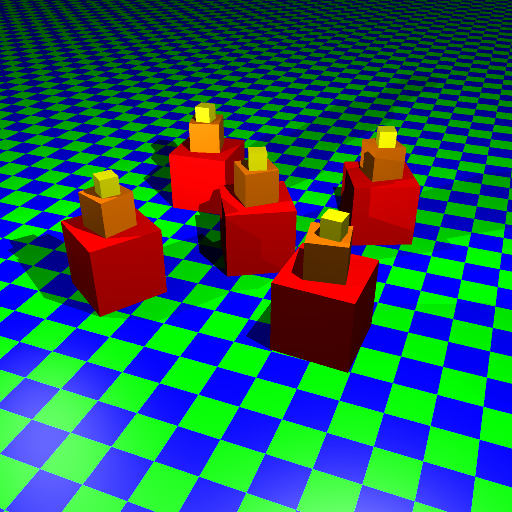
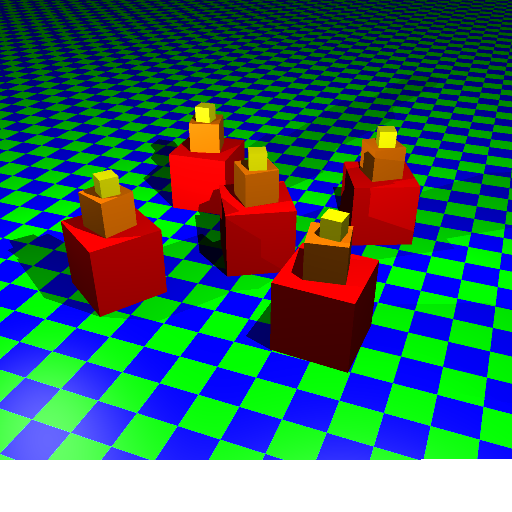
refactor

Changed region(s): [[0.0, 0.875, 1.0, 1.0]]

diff --git a/src/comp557/a4/Parser.java b/src/comp557/a4/Parser.java
@@ -28,10 +28,9 @@ public class Parser {
             scene.ambient.set(x, y, z);   
             s.close();
         }
-        // Added parsing for the number of recursive reflection calls.
-        Node reflectionsAttr = dataNode.getAttributes().getNamedItem("reflections");
-        if( reflectionsAttr != null ) {
-        	Scanner s = new Scanner( reflectionsAttr.getNodeValue());
+        Node reflectionsCount = dataNode.getAttributes().getNamedItem("reflections");
+        if( reflectionsCount != null ) {
+        	Scanner s = new Scanner( reflectionsCount.getNodeValue());
             scene.reflections=s.nextInt();  
             s.close();
         }
@@ -286,15 +285,17 @@ public class Parser {
 	            material.specular.set(r,g,b,a);   
 	            s.close();
 	    	}
-	    	// Added parsing of the material mirror color
+	    	
+	    	// Capture mirror attribute from file during parse
 	    	Node mirrorAttr = dataNode.getAttributes().getNamedItem("mirror");
 	    	if ( mirrorAttr != null ) {
 	        	Scanner s = new Scanner( mirrorAttr.getNodeValue());
-	            float r = s.nextFloat();
-	            float g = s.nextFloat();
-	            float b = s.nextFloat();
+	            //System.out.println(s.next());
+	        	float rMirror = s.nextFloat();
+	            float gMirror = s.nextFloat();
+	            float bMirror = s.nextFloat();
 	            float a = (s.hasNextFloat() ? s.nextFloat() : 1);
-	            material.mirror.set(r,g,b,a);   
+	            material.mirror.set(rMirror,gMirror,bMirror,a);   
 	            s.close();
 	    	}
 	    	Node hardnessAttr = dataNode.getAttributes().getNamedItem("hardness");
@@ -329,7 +330,8 @@ public class Parser {
             render.samples = s.nextInt(); 
 			s.close();
 		}
-		// Added parsing of the jitter attribute
+		
+		//Objective 8: modify parser to capture jitter attribute
 		Node jitterAttr=dataNode.getAttributes().getNamedItem("jitter");
 		if(jitterAttr !=null){//If there is a jitter attribute in the parser tag
         	Scanner s = new Scanner( jitterAttr.getNodeValue());

diff --git a/src/comp557/a4/Plane.java b/src/comp557/a4/Plane.java
@@ -30,32 +30,33 @@ public class Plane extends Intersectable {
 		if (ray.viewDirection.dot(n) != 0) {
 			double t = -(eye.dot(n))/(ray.viewDirection.dot(n));
 			if (t < 0 || t > result.t) return;
-			Vector3d td = new Vector3d(ray.viewDirection);
-			td.scale(t);
+			Vector3d tdVEC = new Vector3d(ray.viewDirection);
+			
+			tdVEC.scale(t);
 			Point3d p = new Point3d(eye);
-			p.add(td);
+			p.add(tdVEC);
 				
 			//If a material is defined, choose the color based on where it is in the checker pattern
-			Material m = null;
+			Material matInit = null;
 			boolean x = (((int) Math.ceil(p.x)) % 2) == 0 ? true : false;
 			boolean z = (((int) Math.ceil(p.z)) % 2) == 0 ? true : false;
 			if (x == z) { 
-				m = this.material;
+				matInit = this.material;
 			}
 			
 			else {
 				if (material2 == null) {
-					m = material;
+					matInit = material;
 				}
 				else {
-					m = material2;
+					matInit = material2;
 				}
 			}
 				
 			result.n.set(n);
 			result.p.set(p);
 			result.t = t;
-			result.material = m;
+			result.material = matInit;
 		}
     	
     }

diff --git a/src/comp557/a4/SceneNode.java b/src/comp557/a4/SceneNode.java
@@ -65,11 +65,13 @@ public class SceneNode extends Intersectable {
 			
 			child.intersect(ray, closer);
 			
+			//Transform calculation
 			Matrix4d T = new Matrix4d();			
 			T.transpose(Minv);
 			T.transform(closer.n);
 			
-			if(closer.t < result.t){
+			boolean closerCheck = closer.t < result.t;
+			if(closerCheck == true){
 				result.t = closer.t;
 				result.material = closer.material;
 				M.transform(closer.p);
@@ -77,9 +79,11 @@ public class SceneNode extends Intersectable {
 				result.n = closer.n;	
 			}		
 		}
+		//if not null material set the SAME material (similar in scene render)
 		if(this.material != null){
 			result.material = this.material;
 		}
+		
 		result.n.normalize();
 		
 		M.transform(ray.eyePoint);
